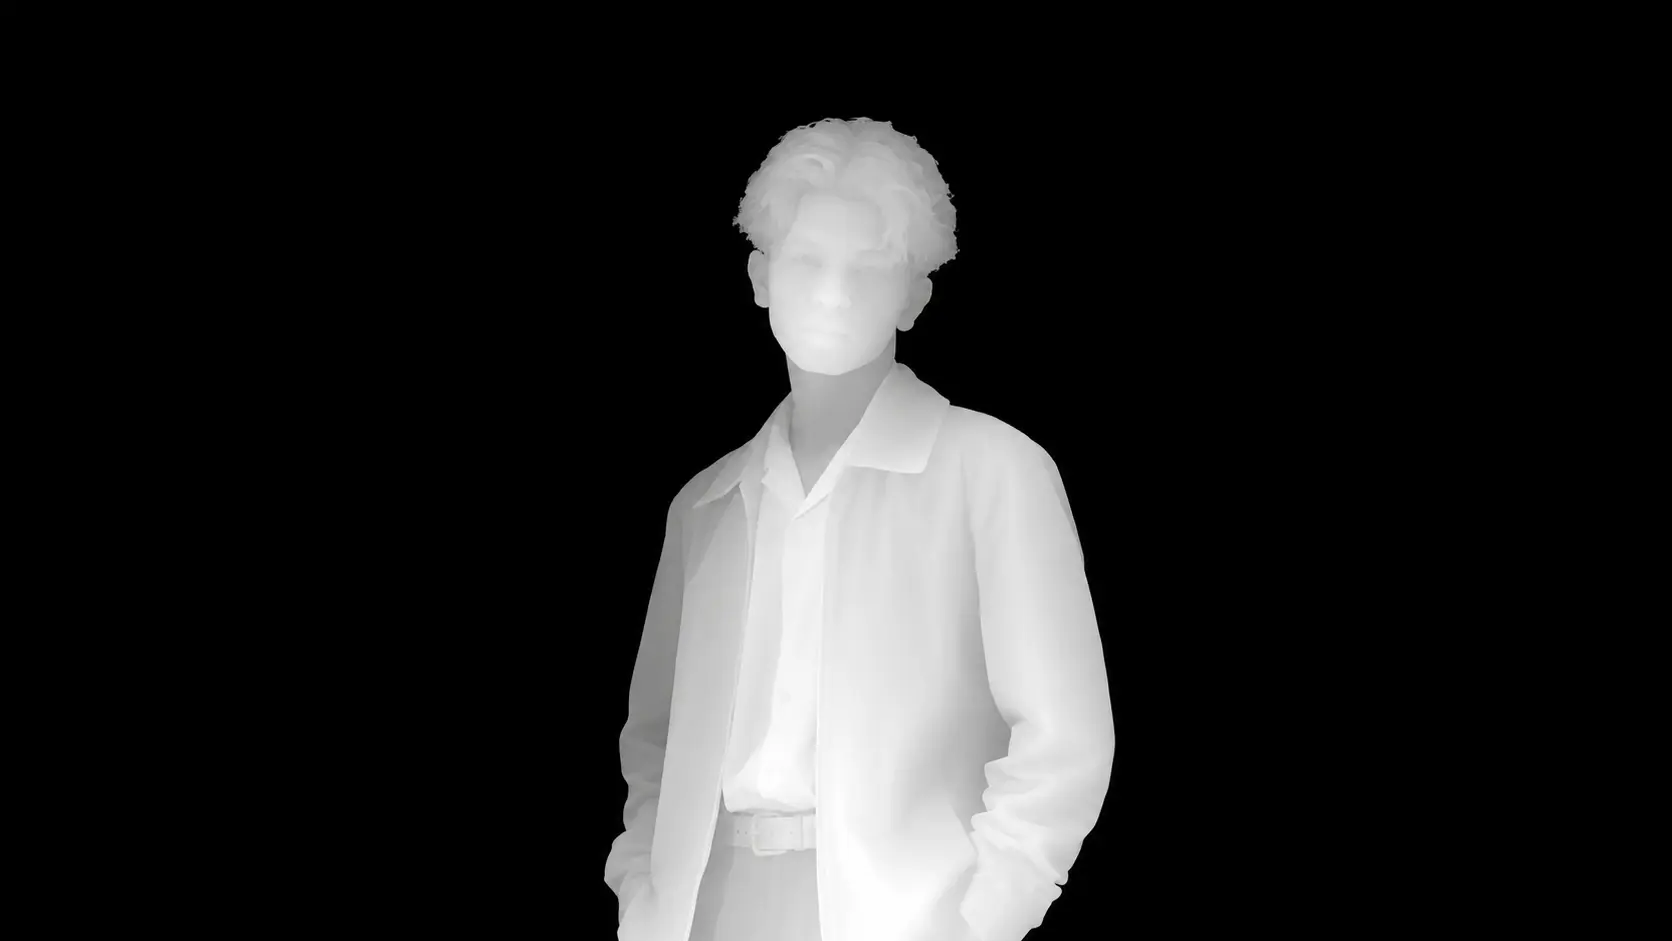
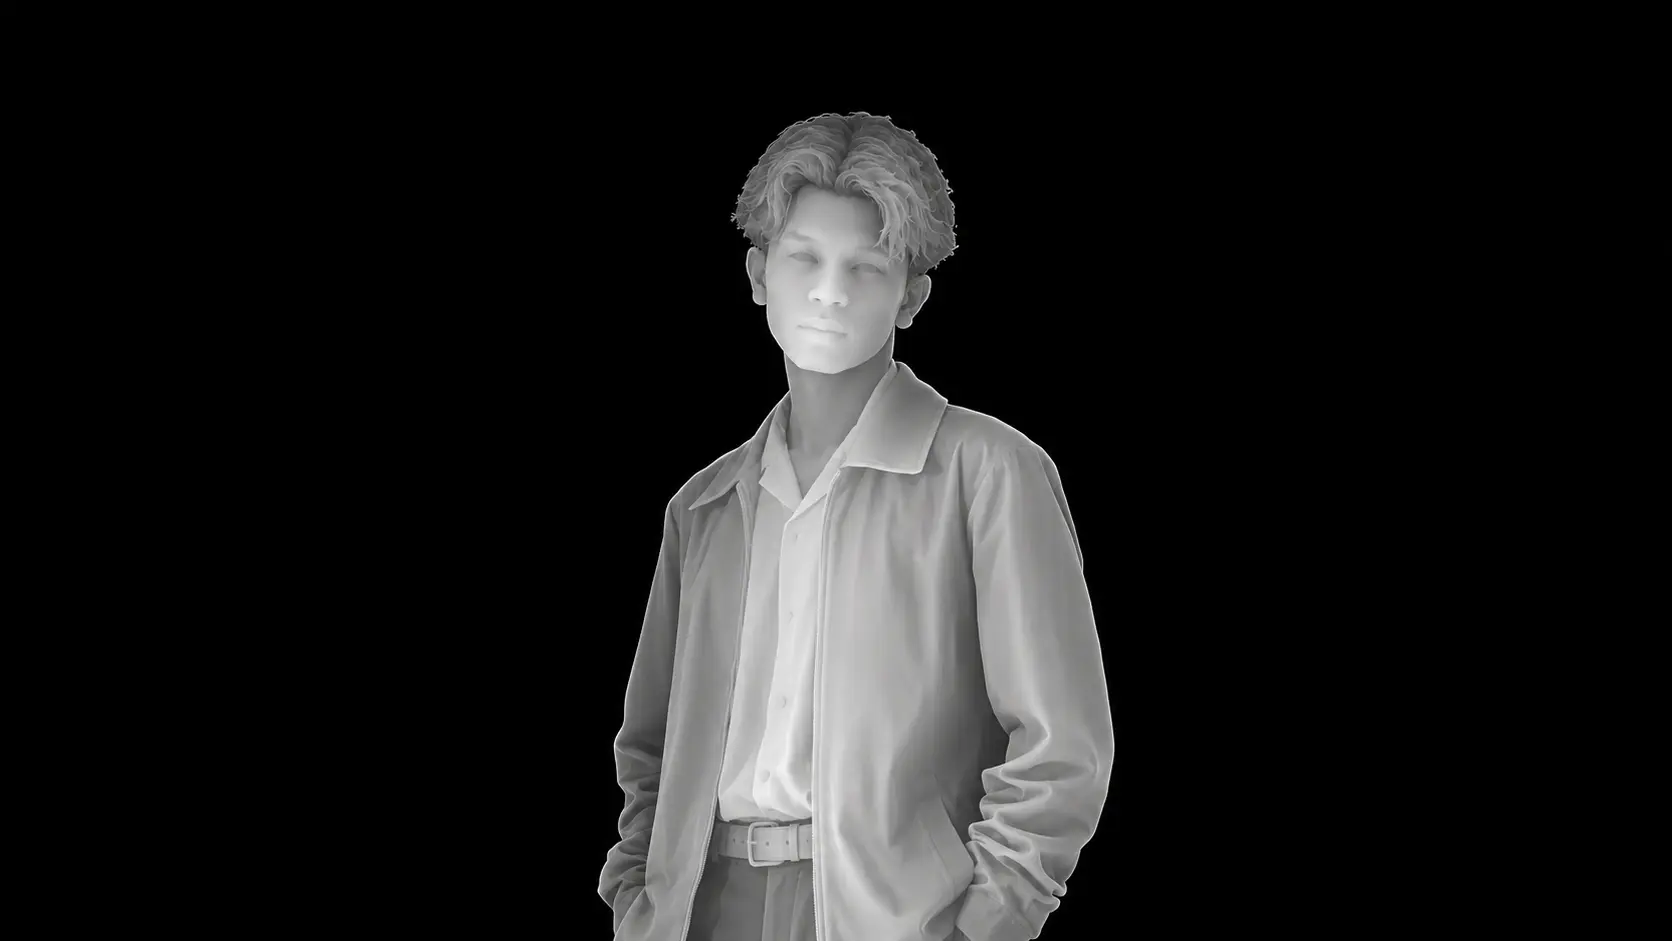
update hero 3d

Changed region(s): [[0.3421, 0.1233, 0.6842, 1.0]]

diff --git a/components/Hero3DCanvas.tsx b/components/Hero3DCanvas.tsx
@@ -10,20 +10,17 @@ export interface Hero3DCanvasProps {
     /**
      * Parallax intensity multiplier.
      * Lower values (0.004 - 0.008) give minimal, subtle luxury movement.
-     * Medium values (0.010 - 0.016) give standard 3D depth.
-     * Higher values (> 0.020) produce pronounced displacement.
      * @default 0.007
      */
     intensity?: number;
     /**
      * Focal depth plane (0.0 to 1.0) that remains stationary.
-     * Defaults to 0.65 (anchors the face/eyes as pivot point).
      * @default 0.65
      */
     focusPlane?: number;
     /**
-     * Mouse easing / interpolation factor (0.01 = very slow/smooth, 0.1 = instant).
-     * @default 0.05
+     * Mouse easing factor (0.01 = slow/smooth, 0.1 = responsive).
+     * @default 0.045
      */
     smoothing?: number;
     /**
@@ -49,28 +46,12 @@ const fragmentShader = `
   uniform vec2 u_intensity;
   uniform float u_focusPlane;
   uniform float u_maxDisplacement;
-  uniform vec2 u_resolution;
-  uniform vec2 u_imageResolution;
 
   varying vec2 vUv;
 
   void main() {
-    // Calculate aspect ratio cover UV coordinates matching object-cover
-    vec2 s = u_resolution; // Canvas size
-    vec2 i = u_imageResolution; // Image natural size
-
-    float rs = s.x / s.y;
-    float ri = i.x / i.y;
-    vec2 newUv = vUv;
-
-    if (rs > ri) {
-      newUv.y = (vUv.y - 0.5) * (ri / rs) + 0.5;
-    } else {
-      newUv.x = (vUv.x - 0.5) * (rs / ri) + 0.5;
-    }
-
     // Sample depth from red channel (0.0 = background, 1.0 = closest foreground)
-    float depth = texture2D(u_depth, newUv).r;
+    float depth = texture2D(u_depth, vUv).r;
 
     // Displace relative to focus plane (face plane anchors, foreground pushes forward, background recedes)
     float depthDelta = (depth - u_focusPlane);
@@ -83,9 +64,9 @@ const fragmentShader = `
     }
 
     // Displaced UV coordinates clamped within texture boundaries
-    vec2 displacedUv = clamp(newUv + displacement, vec2(0.001), vec2(0.999));
+    vec2 displacedUv = clamp(vUv + displacement, vec2(0.001), vec2(0.999));
 
-    vec4 origColor = texture2D(u_texture, newUv);
+    vec4 origColor = texture2D(u_texture, vUv);
     vec4 dispColor = texture2D(u_texture, displacedUv);
 
     // Alpha protection: if displaced UV steps into transparent background, smoothly blend back to original
@@ -107,7 +88,7 @@ export default function Hero3DCanvas({
     className = 'w-full h-full',
     intensity = 0.007,
     focusPlane = 0.65,
-    smoothing = 0.05,
+    smoothing = 0.045,
     maxDisplacement = 0.012,
     onLoaded,
 }: Hero3DCanvasProps) {
@@ -115,9 +96,8 @@ export default function Hero3DCanvas({
     const canvasRef = useRef<HTMLCanvasElement>(null);
 
     useEffect(() => {
-        const container = containerRef.current;
         const canvas = canvasRef.current;
-        if (!container || !canvas) return;
+        if (!canvas) return;
 
         let animationFrameId: number;
         let isDisposed = false;
@@ -132,8 +112,21 @@ export default function Hero3DCanvas({
             alpha: true,
             antialias: true,
             powerPreference: 'high-performance',
+            preserveDrawingBuffer: false,
         });
-        renderer.setPixelRatio(Math.min(window.devicePixelRatio || 1, 2));
+
+        // Set fixed high-quality internal render buffer size (e.g. 1920x1080)
+        // CSS handles display scaling smoothly without WebGL buffer reallocation during scroll
+        const updateRendererResolution = () => {
+            if (isDisposed) return;
+            const dpr = Math.min(window.devicePixelRatio || 1, 2);
+            const targetW = Math.min(Math.round(window.innerWidth * dpr), 2560);
+            const targetH = Math.round(targetW * (9 / 16));
+            renderer.setPixelRatio(1);
+            renderer.setSize(targetW, targetH, false);
+        };
+
+        updateRendererResolution();
 
         // Uniforms
         const uniforms = {
@@ -143,8 +136,6 @@ export default function Hero3DCanvas({
             u_intensity: { value: new THREE.Vector2(intensity, intensity) },
             u_focusPlane: { value: focusPlane },
             u_maxDisplacement: { value: maxDisplacement },
-            u_resolution: { value: new THREE.Vector2(1, 1) },
-            u_imageResolution: { value: new THREE.Vector2(2880, 1620) },
         };
 
         // Fullscreen Quad Geometry
@@ -181,8 +172,8 @@ export default function Hero3DCanvas({
             const normX = (clientX - window.innerWidth / 2) / (window.innerWidth / 2);
             const normY = -(clientY - window.innerHeight / 2) / (window.innerHeight / 2);
 
-            targetMouse.x = normX;
-            targetMouse.y = normY;
+            targetMouse.x = Math.max(-1, Math.min(1, normX));
+            targetMouse.y = Math.max(-1, Math.min(1, normY));
         };
 
         const handlePointerLeave = () => {
@@ -194,21 +185,15 @@ export default function Hero3DCanvas({
         window.addEventListener('touchmove', handlePointerMove, { passive: true });
         window.addEventListener('mouseleave', handlePointerLeave);
 
-        // Resize Handler
-        const updateSize = () => {
-            if (!container || isDisposed) return;
-            const width = container.clientWidth || window.innerWidth;
-            const height = container.clientHeight || window.innerHeight;
-
-            renderer.setSize(width, height, false);
-            uniforms.u_resolution.value.set(width, height);
+        // Only update WebGL canvas buffer on window resize with debounce
+        let resizeTimer: NodeJS.Timeout | null = null;
+        const handleWindowResize = () => {
+            if (resizeTimer) clearTimeout(resizeTimer);
+            resizeTimer = setTimeout(() => {
+                updateRendererResolution();
+            }, 150);
         };
-
-        const resizeObserver = new ResizeObserver(() => {
-            updateSize();
-        });
-        resizeObserver.observe(container);
-        updateSize();
+        window.addEventListener('resize', handleWindowResize);
 
         // Texture Loader
         const textureLoader = new THREE.TextureLoader();
@@ -234,9 +219,6 @@ export default function Hero3DCanvas({
                 tex.wrapT = THREE.ClampToEdgeWrapping;
                 tex.generateMipmaps = false;
                 uniforms.u_texture.value = tex;
-                if (tex.image && tex.image.width && tex.image.height) {
-                    uniforms.u_imageResolution.value.set(tex.image.width, tex.image.height);
-                }
                 checkLoaded();
             },
             undefined,
@@ -284,10 +266,11 @@ export default function Hero3DCanvas({
             isDisposed = true;
             cancelAnimationFrame(animationFrameId);
 
+            if (resizeTimer) clearTimeout(resizeTimer);
             window.removeEventListener('mousemove', handlePointerMove);
             window.removeEventListener('touchmove', handlePointerMove);
             window.removeEventListener('mouseleave', handlePointerLeave);
-            resizeObserver.disconnect();
+            window.removeEventListener('resize', handleWindowResize);
 
             if (uniforms.u_texture.value) {
                 uniforms.u_texture.value.dispose();
@@ -303,8 +286,21 @@ export default function Hero3DCanvas({
     }, [diffuseMapUrl, depthMapUrl, intensity, focusPlane, smoothing, maxDisplacement, onLoaded]);
 
     return (
-        <div ref={containerRef} className={`relative overflow-hidden ${className}`}>
-            <canvas ref={canvasRef} className="block w-full h-full pointer-events-none select-none" />
+        <div ref={containerRef} className={`relative overflow-hidden w-full h-full ${className}`}>
+            <canvas
+                ref={canvasRef}
+                className="block w-full h-full object-cover object-center pointer-events-none select-none"
+                style={{
+                    width: '100%',
+                    height: '100%',
+                    objectFit: 'cover',
+                    objectPosition: 'center',
+                    transform: 'translateZ(0)',
+                    backfaceVisibility: 'hidden',
+                    WebkitBackfaceVisibility: 'hidden',
+                }}
+            />
         </div>
     );
 }
+

diff --git a/components/Hero.tsx b/components/Hero.tsx
@@ -472,16 +472,21 @@ export default function Hero() {
           <div
             ref={portraitRef}
             className="absolute inset-0 z-10 pointer-events-none will-change-[transform,filter,opacity]"
-            style={{ opacity: 0 }}
+            style={{
+              opacity: 0,
+              transform: "translateZ(0)",
+              backfaceVisibility: "hidden",
+              WebkitBackfaceVisibility: "hidden",
+            }}
           >
             <div className="relative w-full h-full overflow-hidden">
               <Hero3DCanvas
                 diffuseMapUrl="/img/hero.webp"
                 depthMapUrl="/img/hero-depth.webp"
-                intensity={0.007} // Minimal subtle movement (0.004 = ultra subtle, 0.007 = balanced luxury, 0.012 = pronounced)
+                intensity={0.005} // Minimal subtle movement (0.004 = ultra subtle, 0.007 = balanced luxury, 0.012 = pronounced)
                 focusPlane={0.65} // Anchors face & eyes as center pivot
                 smoothing={0.045} // Smooth mouse lerp dampening
-                maxDisplacement={0.012} // Prevents silhouette edge tearing
+                maxDisplacement={0.014} // Prevents silhouette edge tearing
                 onLoaded={() => setImageLoaded(true)}
                 className="w-full h-full"
               />
